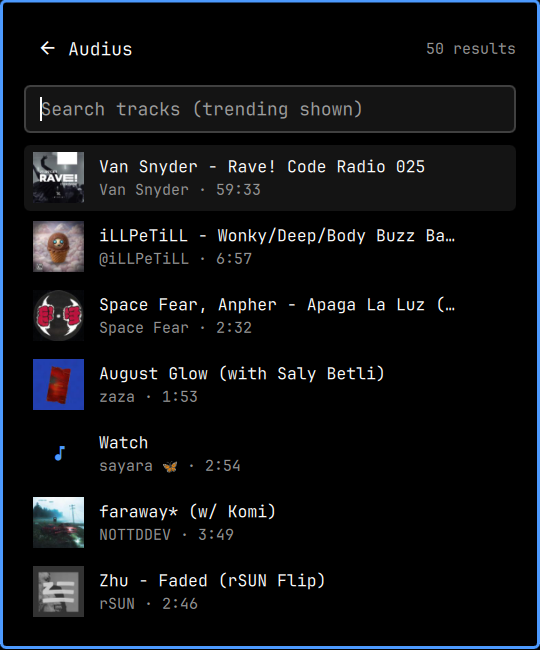
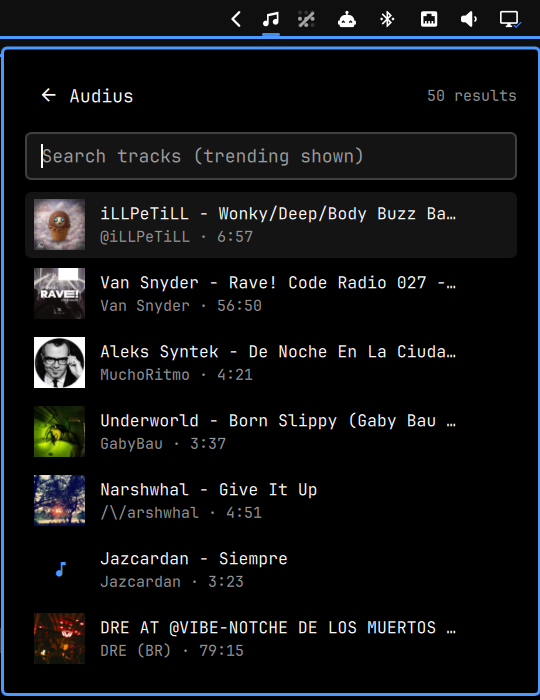
Collapse the sources behind Browse and move the volume between the times (#4)

Changed region(s): [[0.0, 0.0, 1.0, 1.0], [0.5037, 0.6769, 0.5926, 0.7077]]

diff --git a/BarWidget.qml b/BarWidget.qml
@@ -15,8 +15,8 @@ import qs.Ui
 //   scroll        volume
 //
 // Keys in the card: space play/pause, ←/→ previous/next, ↑/↓ volume,
-// , / . back / forward 10 seconds, g go to a time, f favorite, t sleep timer, s/p/r/a/c browse SomaFM/Paradise/Radio/Audius/
-// ccMixter, o songs heard on air, esc back or close.
+// , / . back / forward 10 seconds, g go to a time, f favorite, t sleep timer, b show / hide the sources,
+// s/p/r/a/c browse SomaFM/Paradise/Radio/Audius/ccMixter, o songs heard on air, esc back or close.
 BarWidget {
   id: root
   moduleName: "boris.shojey"
@@ -42,6 +42,8 @@ BarWidget {
   readonly property string glyphVolume: String.fromCodePoint(0xf057e)
   readonly property string glyphVolumeLow: String.fromCodePoint(0xf057f)
   readonly property string glyphVolumeOff: String.fromCodePoint(0xf0581)
+  readonly property string glyphExpand: String.fromCodePoint(0xf0140)
+  readonly property string glyphCollapse: String.fromCodePoint(0xf0143)
 
   readonly property var sources: ({
     soma: { title: "SomaFM", placeholder: "Filter channels", local: true },
@@ -127,6 +129,11 @@ BarWidget {
   readonly property string artUrl: liveCover || (entry && entry.art ? entry.art : "")
 
   property bool popupOpen: false
+
+  // While something plays the card is just the player; the sources and the
+  // saved lists wait behind "Browse". With nothing playing they are the card.
+  property bool expanded: false
+  readonly property bool browsable: expanded || (player === null && !connecting)
 
   // --- browse state ------------------------------------------------------
   property string view: "home"          // "home" | "browse"
@@ -357,6 +364,7 @@ BarWidget {
       if (!spectrumAvailable) spectrumCheck.running = true
     } else {
       view = "home"
+      expanded = false
       jumping = false
       searchDebounce.stop()
     }
@@ -616,6 +624,7 @@ BarWidget {
         else if (text === ",") root.seekBy(-10)
         else if (text === ".") root.seekBy(10)
         else if (text === "g") root.openJump()
+        else if (text === "b") root.expanded = !root.expanded
         else if (text === "f") root.toggleFavorite()
         else if (text === "t" && root.player) root.cycleSleep()
       }
@@ -876,7 +885,7 @@ BarWidget {
 
           Item {
             width: parent.width
-            height: root.jumping ? jumpField.implicitHeight : liveLabel.implicitHeight
+            height: root.jumping ? jumpField.implicitHeight : Math.max(liveLabel.implicitHeight, volumeRow.height)
 
             Text {
               id: liveLabel
@@ -921,6 +930,45 @@ BarWidget {
               }
             }
 
+            // The volume sits between the two times.
+            Row {
+              id: volumeRow
+              visible: !root.jumping && root.player !== null && root.player.volumeSupported
+              anchors.centerIn: parent
+              height: Style.space(16)
+              spacing: Style.space(6)
+
+              Text {
+                anchors.verticalCenter: parent.verticalCenter
+                textFormat: Text.PlainText
+                text: root.volume <= 0 ? root.glyphVolumeOff : root.volume < 0.5 ? root.glyphVolumeLow : root.glyphVolume
+                color: Qt.darker(root.bar.foreground, 1.7)
+                font.family: root.bar.fontFamily
+                font.pixelSize: Style.font.caption
+              }
+
+              PanelSlider {
+                bar: root.bar
+                width: Style.space(110)
+                height: parent.height
+                anchors.verticalCenter: parent.verticalCenter
+                trackHeight: Style.space(2)
+                knobSize: Style.space(10)
+                fillColor: Color.accent
+                value: root.volume
+                onMoved: function(v) { root.setVolume(v) }
+              }
+
+              Text {
+                anchors.verticalCenter: parent.verticalCenter
+                textFormat: Text.PlainText
+                text: Math.round(root.volume * 100)
+                color: Qt.darker(root.bar.foreground, 1.7)
+                font.family: root.bar.fontFamily
+                font.pixelSize: Style.font.caption
+              }
+            }
+
             Text {
               anchors.right: parent.right
               anchors.verticalCenter: parent.verticalCenter
@@ -931,34 +979,20 @@ BarWidget {
               font.pixelSize: Style.font.caption
             }
           }
+        }
 
-          Row {
-            visible: root.player !== null && root.player.volumeSupported
-            width: parent.width
-            spacing: Style.space(8)
-
-            Text {
-              id: volumeGlyph
-              anchors.verticalCenter: parent.verticalCenter
-              textFormat: Text.PlainText
-              text: root.volume <= 0 ? root.glyphVolumeOff : root.volume < 0.5 ? root.glyphVolumeLow : root.glyphVolume
-              color: Qt.darker(root.bar.foreground, 1.3)
-              font.family: root.bar.fontFamily
-              font.pixelSize: Style.font.body
-            }
-
-            PanelSlider {
-              bar: root.bar
-              width: parent.width - volumeGlyph.width - parent.spacing
-              anchors.verticalCenter: parent.verticalCenter
-              value: root.volume
-              onMoved: function(v) { root.setVolume(v) }
-            }
-          }
+        Button {
+          visible: root.player !== null || root.connecting
+          anchors.horizontalCenter: parent.horizontalCenter
+          iconText: root.expanded ? root.glyphCollapse : root.glyphExpand
+          text: root.expanded ? "Less" : "Browse"
+          foreground: Qt.darker(root.bar.foreground, 1.3)
+          onClicked: root.expanded = !root.expanded
         }
 
         // Stations on top, on-demand tracks below.
         Column {
+          visible: root.browsable
           width: parent.width
           spacing: Style.space(6)
 
@@ -1012,7 +1046,7 @@ BarWidget {
           Column {
             id: savedSection
             required property var modelData
-            visible: modelData.items.length > 0
+            visible: root.browsable && modelData.items.length > 0
             width: homeColumn.width
             spacing: Style.space(2)
 

diff --git a/README.md b/README.md
@@ -7,9 +7,10 @@ the system `mpv-mpris` script exposes mpv over MPRIS, Omarchy's media keys, OSD
 and media widget control it like any other player.
 
 <p>
-  <img src="screenshots/card.png" width="270" alt="The now-playing card under the bar: artwork, controls, sources and recent plays">
-  <img src="screenshots/somafm.png" width="270" alt="Browsing SomaFM channels inside the card">
-  <img src="screenshots/audius.png" width="270" alt="Trending Audius tracks inside the card">
+  <img src="screenshots/card.png" width="210" alt="The now-playing card under the bar: artwork, controls, a spectrum with the seek bar through it, and the volume between the times">
+  <img src="screenshots/browse.png" width="210" alt="The card with Browse unfolded: source buttons, recent plays and songs heard on air">
+  <img src="screenshots/somafm.png" width="210" alt="Browsing SomaFM channels inside the card">
+  <img src="screenshots/audius.png" width="210" alt="Trending Audius tracks inside the card">
 </p>
 
 ## Sources
@@ -36,8 +37,11 @@ instant, and the last copy is shown if a refresh fails.
 | scroll | volume |
 
 The card shows artwork, track and source, prev / play / next / favorite, a
-sleep timer, a LIVE marker or track position, a volume slider, buttons for
-each source, and your favorites and recent plays. Everything happens in the card: pick a source and its channels or
+sleep timer, a LIVE marker or track position, and the volume between the two
+times. While
+something plays that is all of it; "Browse" (or b) unfolds buttons for each
+source and your favorites and recent plays, and they are shown straight away
+when nothing is playing. Everything happens in the card: pick a source and its channels or
 search results open in place. "All ›" opens the full favorites or recent list,
 where ✕ (or Delete) removes an entry.
 
@@ -65,7 +69,7 @@ look up what was playing earlier. Picking a song copies its title to the
 clipboard.
 
 Keys: space play/pause, ←/→ previous/next, ↑/↓ volume, , / . back / forward 10 seconds,
-g go to a time, f favorite, t sleep timer, s/p/r/a/c open SomaFM/Paradise/Radio/Audius/ccMixter, o songs heard on
+g go to a time, f favorite, t sleep timer, b show / hide the sources, s/p/r/a/c open SomaFM/Paradise/Radio/Audius/ccMixter, o songs heard on
 air, ↑/↓ and enter in a list, esc back.
 
 Bind the card to a key with:
